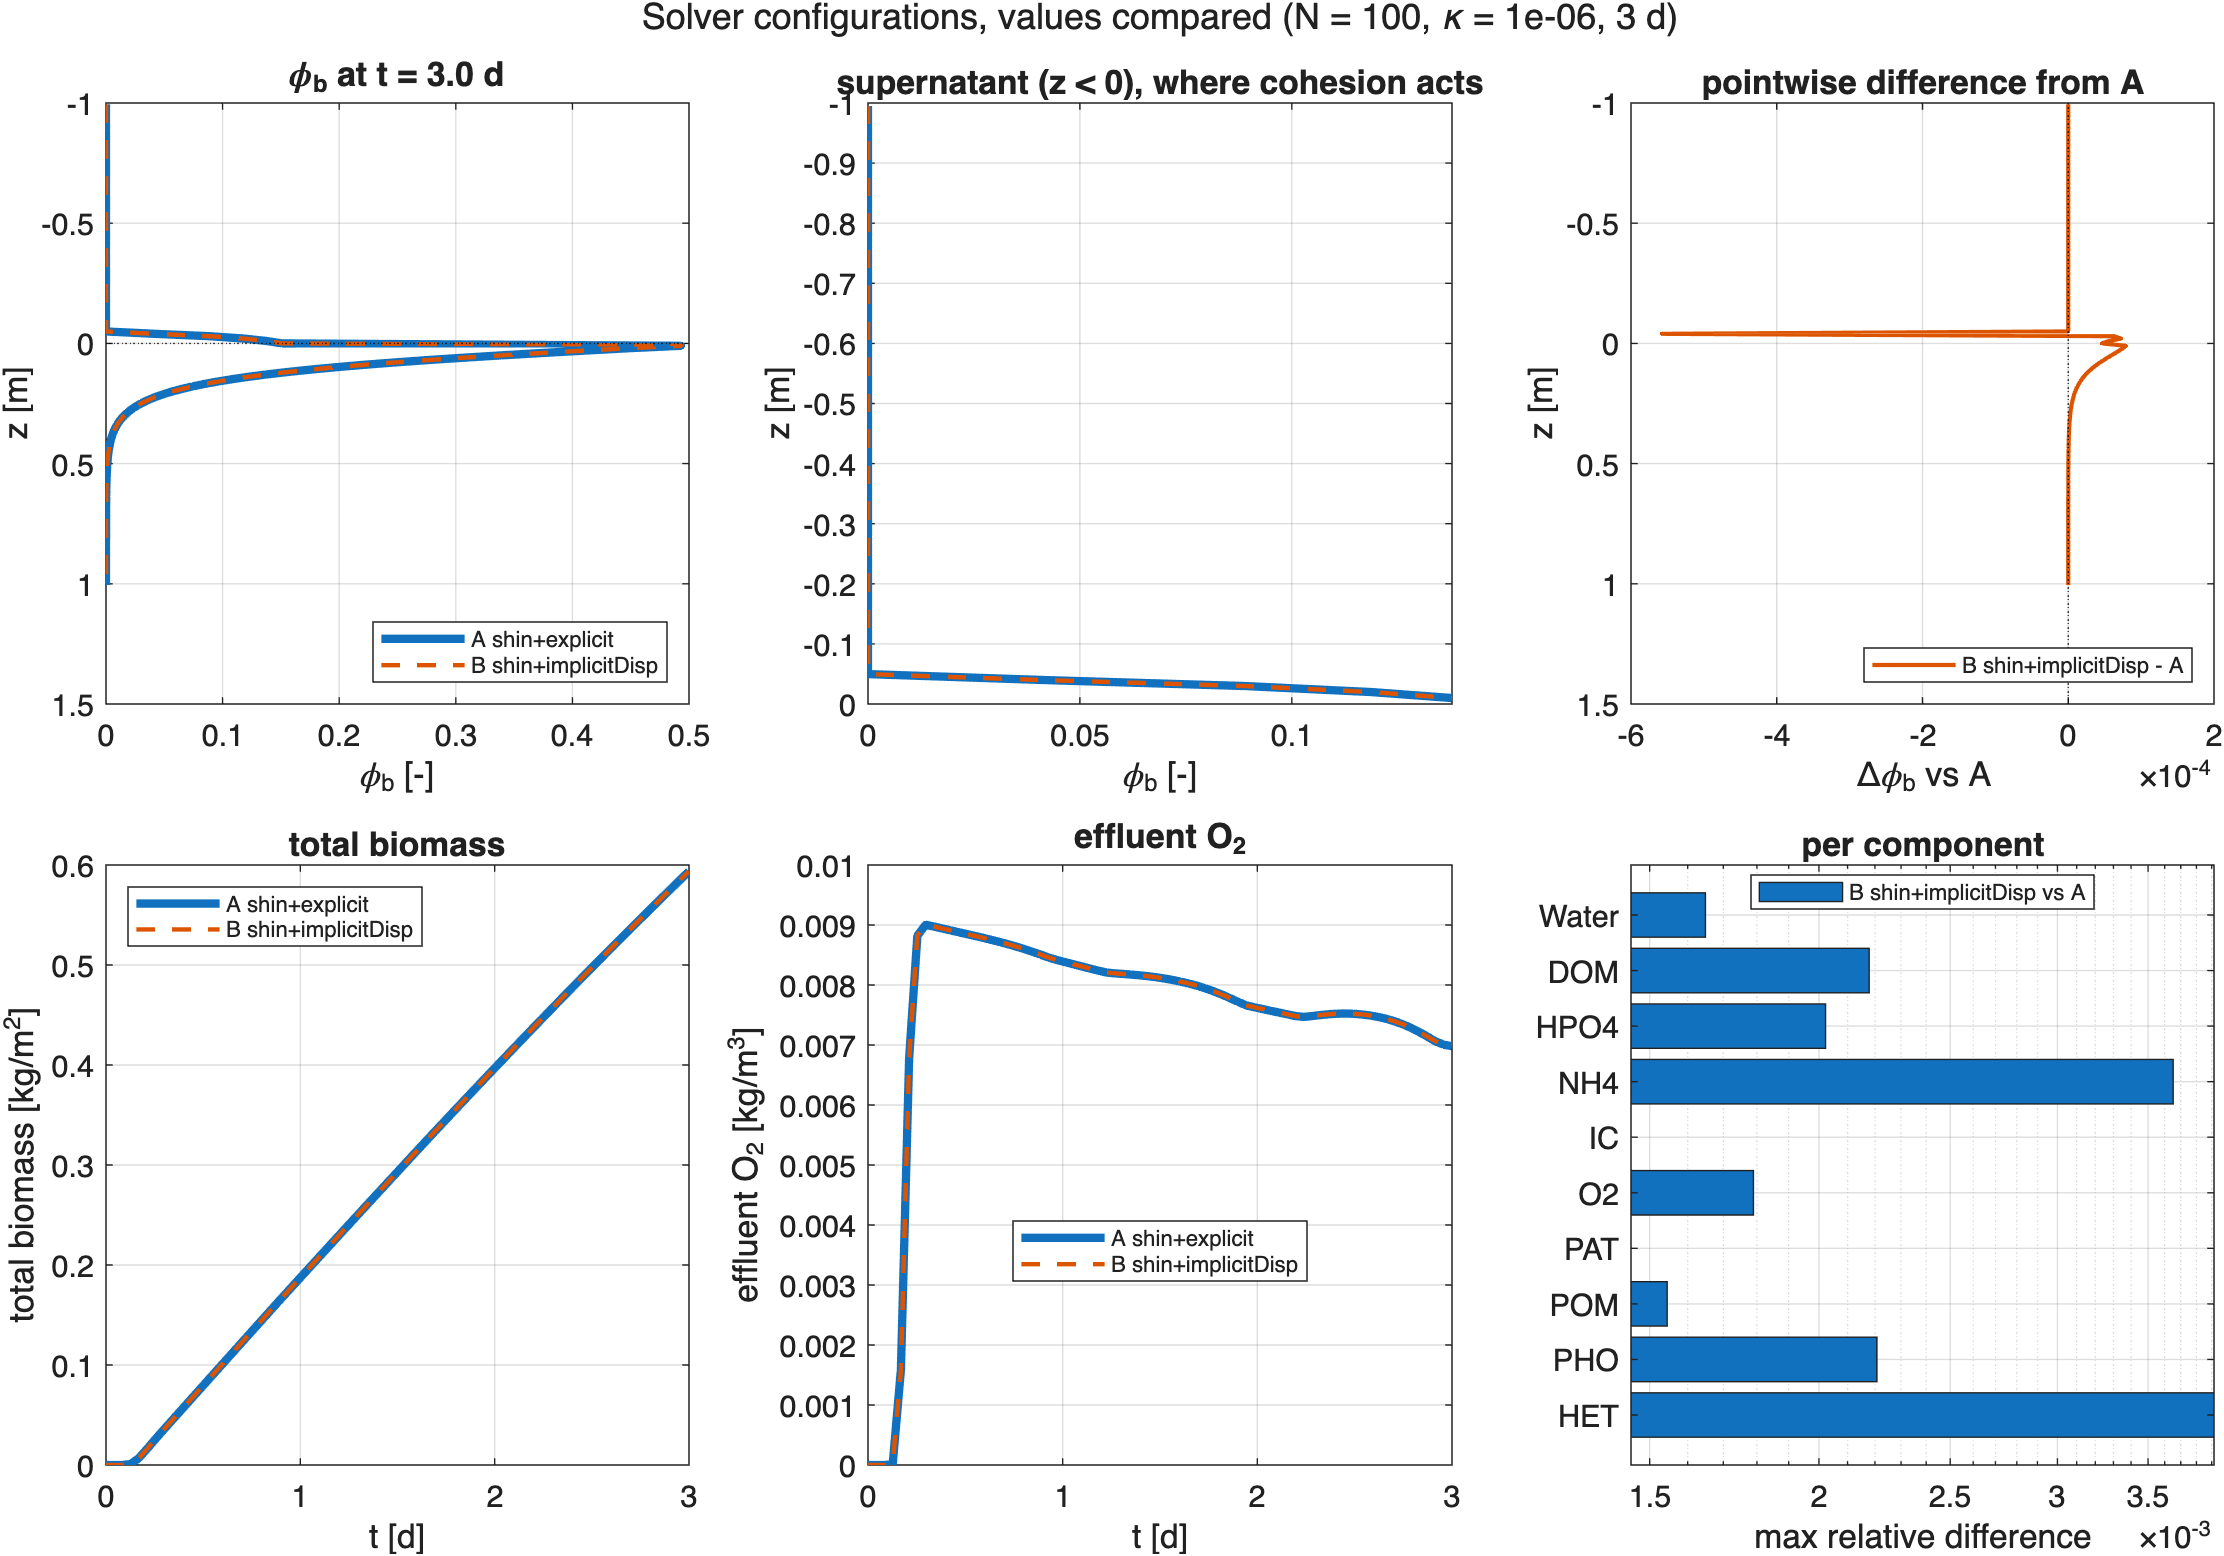
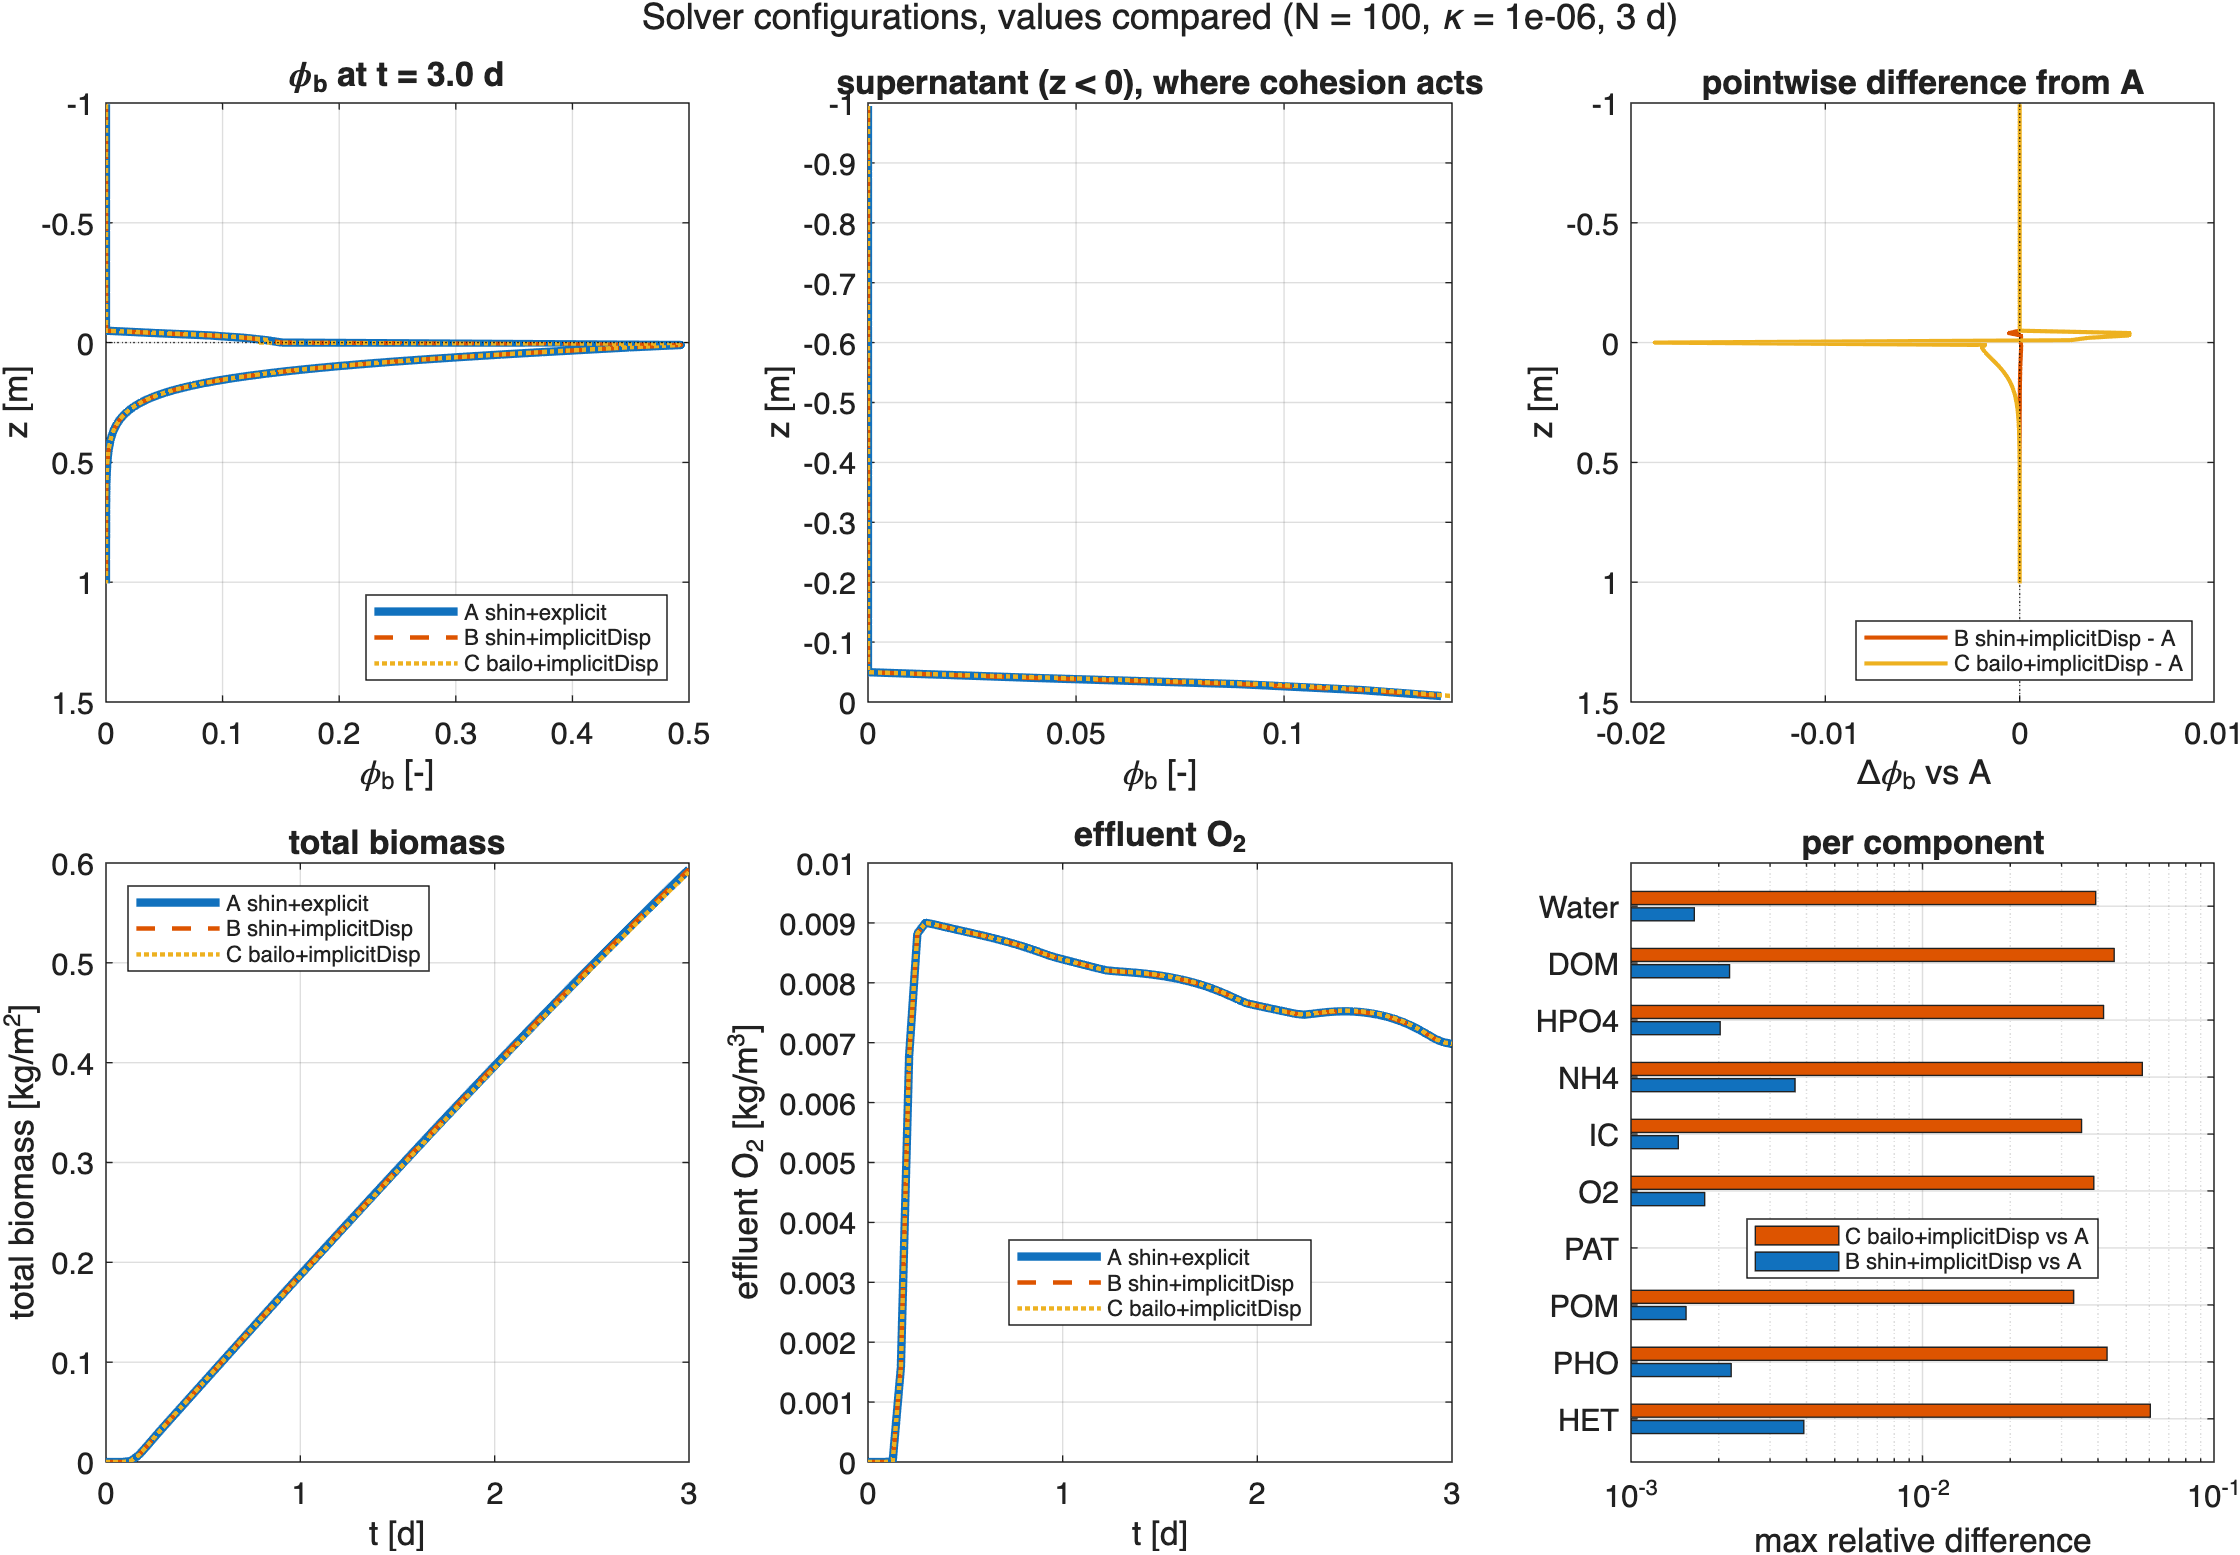
Per-component profiles and v_b for the A/B/C comparison
phi_b is a sum, so agreement on the total can hide per-component errors that
cancel. Each component is now plotted separately, alongside v_b -- the ONLY
quantity Solver A hands to Solver B, and therefore the entire channel through
which the Cahn-Hilliard scheme can act.

C vs A at N=200, max relative deviation on the final profile:

  HET/Matrix      3.13e-02      O2/Flowing     8.06e-03
  PHO/Matrix      2.18e-02      IC/Flowing     7.79e-03
  Water/Enclosed  1.97e-02      DOM/Flowing    6.93e-03
  POM/Matrix      1.48e-02      NH4/Flowing    6.47e-03
                                HPO4/Flowing   3.76e-03

Structured, not diffuse: biofilm solids and enclosed water take 1.5-3.1%, flowing
liquids 0.4-0.8%. That is the expected signature -- the CH scheme acts on phi_b
through v_b, so solids feel it directly and liquids only via the altered biofilm.
Consistently, v_b is near zero through the supernatant and rises to ~13-14 m/d in
a thin layer at the sand surface, which is where every deviation is localised.

PAT IS IDENTICALLY ZERO in this comparison, because baseInfluent sets PAT = 0 for
biofilm runs. So none of this says anything about the pathogen -- the manuscript's
headline output, the smallest component, and hence the most vulnerable to a scheme
change. The panel now says so rather than printing NaN. Worth re-running with PAT
inflow enabled before judging C fit for pathogen work.

Also fixed the figure title printing twice: sprintf processes backslash escapes,
[…]

diff --git a/analysis/compareSchemeValues.m b/analysis/compareSchemeValues.m
@@ -129,6 +129,56 @@ out = fullfile(opts.OutDir, sprintf("fig6_scheme_values_n%d.png", opts.NCells));
 exportgraphics(fig, out, Resolution=200);
 fprintf("\nwrote %s\n", out);
 
+% ---------- per-component profiles and v_b ----------------------------------
+% phi_b is a sum, so agreement there can hide cancelling per-component errors.
+% Plot each component separately, and v_b, which is the ONLY thing Solver A hands
+% to Solver B and therefore the channel through which the CH scheme can act.
+parts = [R{1}.Model.Particles.Name];  liqs = [R{1}.Model.Liquids.Name];
+panels = [ compose("%s|Matrix", parts), compose("%s|Flowing", liqs), "Water|Enclosed" ];
+np = numel(panels);
+fig2 = figure(Position=[60 60 1250 780]);
+tl2 = tiledlayout(fig2, 3, ceil((np+1)/3), TileSpacing="compact", Padding="compact");
+devC = nan(1, np);
+for i = 1:np
+    pp = split(panels(i), "|"); nm = pp(1); ph = pp(2);
+    nexttile; hold on
+    xa = R{1}.Frames.Concentrations{nm, ph}{1};
+    for k = 1:numel(R)
+        xk = R{k}.Frames.Concentrations{nm, ph}{1};
+        plot(xk(:,end), z, Color=cols(k,:), LineWidth=lw(k), LineStyle=ls(k), ...
+             DisplayName=names(k));
+    end
+    xc = R{end}.Frames.Concentrations{nm, ph}{1};
+    den = max(abs(xa(:,end)));
+    if den > 0, devC(i) = max(abs(xc(:,end) - xa(:,end)))/den; end
+    set(gca, YDir="reverse"); yline(0, "k:", HandleVisibility="off");
+    title(sprintf("%s / %s   (C-A %.1e)", nm, ph, devC(i)), FontSize=9);
+    xlabel("[kg/m^3]"); if mod(i-1, ceil((np+1)/3)) == 0, ylabel("z [m]"); end
+    grid on; box on
+end
+
+nexttile; hold on                                   % v_b, Solver A's only output
+zf = f.GridPoints.Boundaries(2:end-1);
+for k = 1:numel(R)
+    vb = R{k}.Frames.Velocity.Biofilm;
+    plot(vb(:,end), zf, Color=cols(k,:), LineWidth=lw(k), LineStyle=ls(k), ...
+         DisplayName=names(k));
+end
+set(gca, YDir="reverse"); yline(0, "k:", HandleVisibility="off"); xline(0, "k:", HandleVisibility="off");
+xlabel("v_b [m/d]"); title("v_b -- Solver A's only output", FontSize=9);
+legend(Location="best", FontSize=7); grid on; box on
+title(tl2, sprintf("Per-component profiles at t = %.0f d (N = %d, \kappa = %g)", ...
+    opts.Days, opts.NCells, opts.Kappa));
+out2 = fullfile(opts.OutDir, sprintf("fig7_components_n%d.png", opts.NCells));
+exportgraphics(fig2, out2, Resolution=200);
+fprintf("wrote %s\n", out2);
+
+fprintf("\nC vs A, per component (max relative on the final profile):\n");
+[sv, si] = sort(devC, "descend", MissingPlacement="last");
+for i = 1:np
+    if ~isnan(sv(i)), fprintf("   %-16s %.3e\n", panels(si(i)), sv(i)); end
+end
+
 fprintf("\n%-22s %12s %12s %12s\n", "config", "max phi_b", "biomass(end)", "vs A (max rel)");
 for k = 1:numel(R)
     if k == 1, s = "-"; else, s = sprintf("%.3e", max(D(:,k-1))); end
